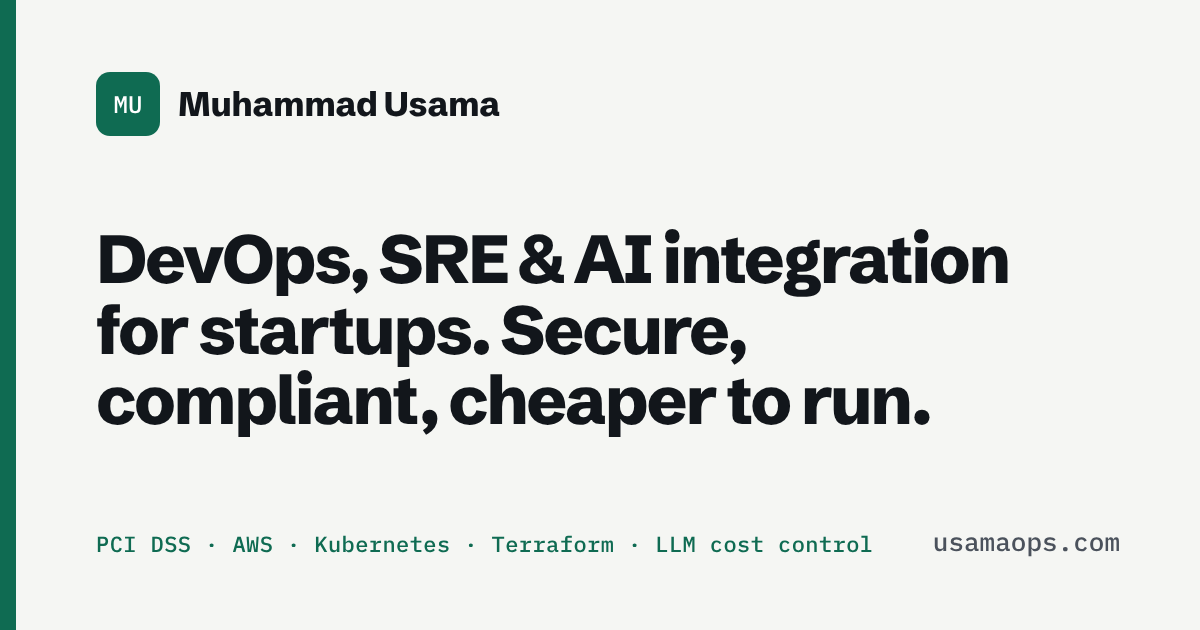
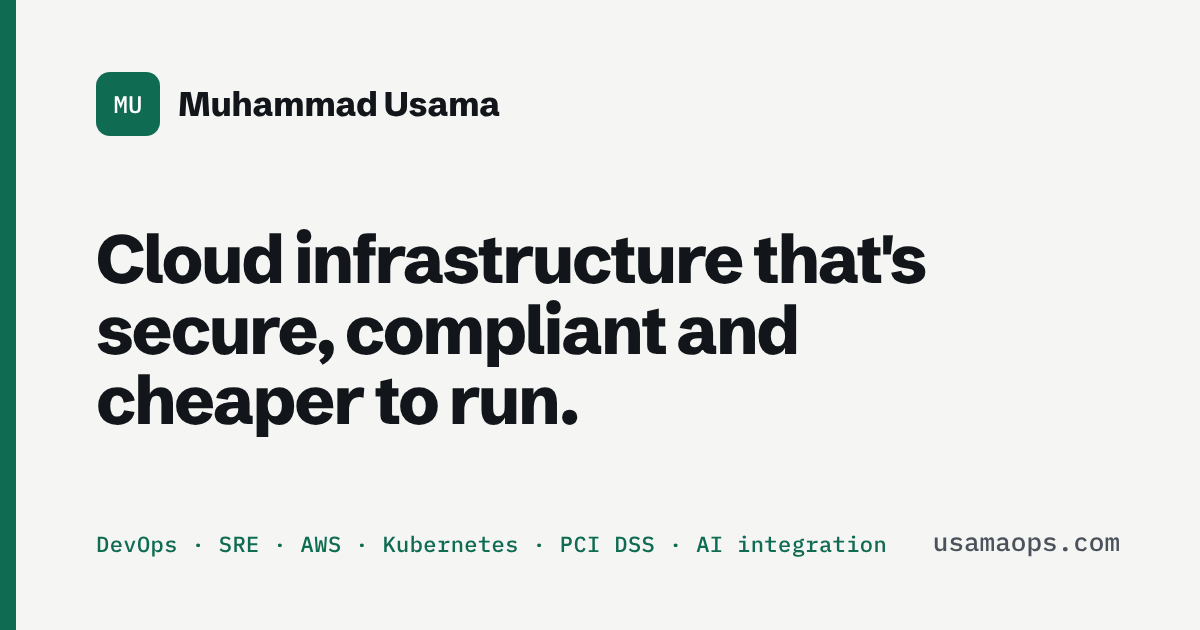
Broaden positioning beyond startups and strengthen name/brand SEO
- Hero: "I make your cloud infrastructure secure, compliant and cheaper to run."
  and copy that speaks to startups, SaaS teams and established businesses
- Title/description lead with "Muhammad Usama" and "UsamaOps" for name searches
- Structured data: WebSite (site name UsamaOps), Person with sameAs
  LinkedIn/GitHub, ProfessionalService linked to the Person
- New FAQs: "Do you only work with startups?" and hiring a remote DevOps engineer
- og:site_name, og:locale, author and rel="me" links; refreshed OG image
- llms.txt updated to match

Claude-Session: https://claude.ai/code/session_013AJkhiAVBLJkSbJcJymshh

Changed region(s): [[0.0617, 0.3619, 0.8633, 0.6937], [0.0925, 0.8444, 0.74, 0.8746]]

diff --git a/src/site.ts b/src/site.ts
@@ -1,6 +1,7 @@
 // Single place for contact details and links used across the site.
 export const site = {
   name: 'Muhammad Usama',
+  brand: 'UsamaOps',
   url: 'https://usamaops.com',
   email: 'hello@usamaops.com',
   linkedin: 'https://www.linkedin.com/in/muhammad-usama-8894b4201/',
